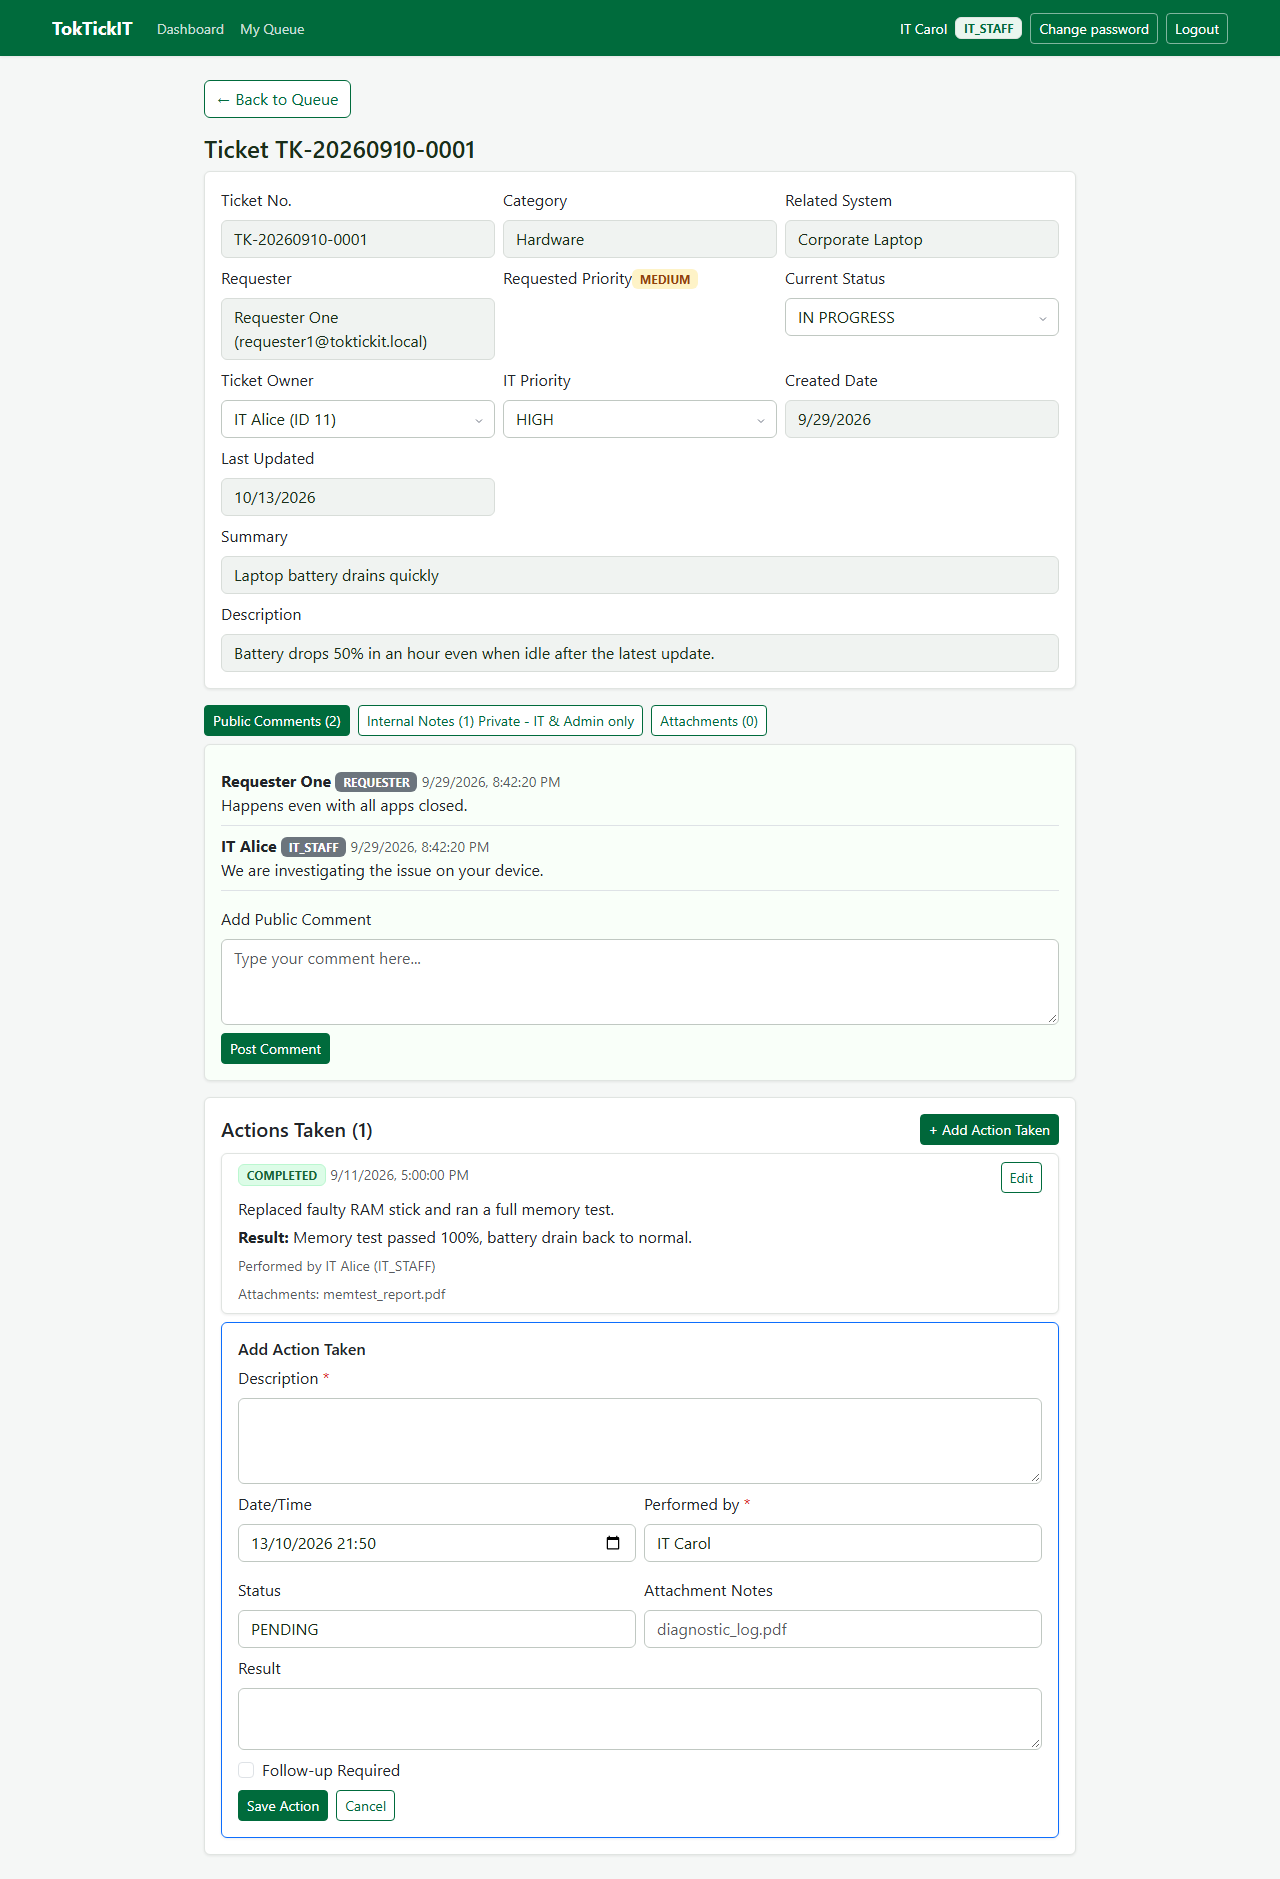
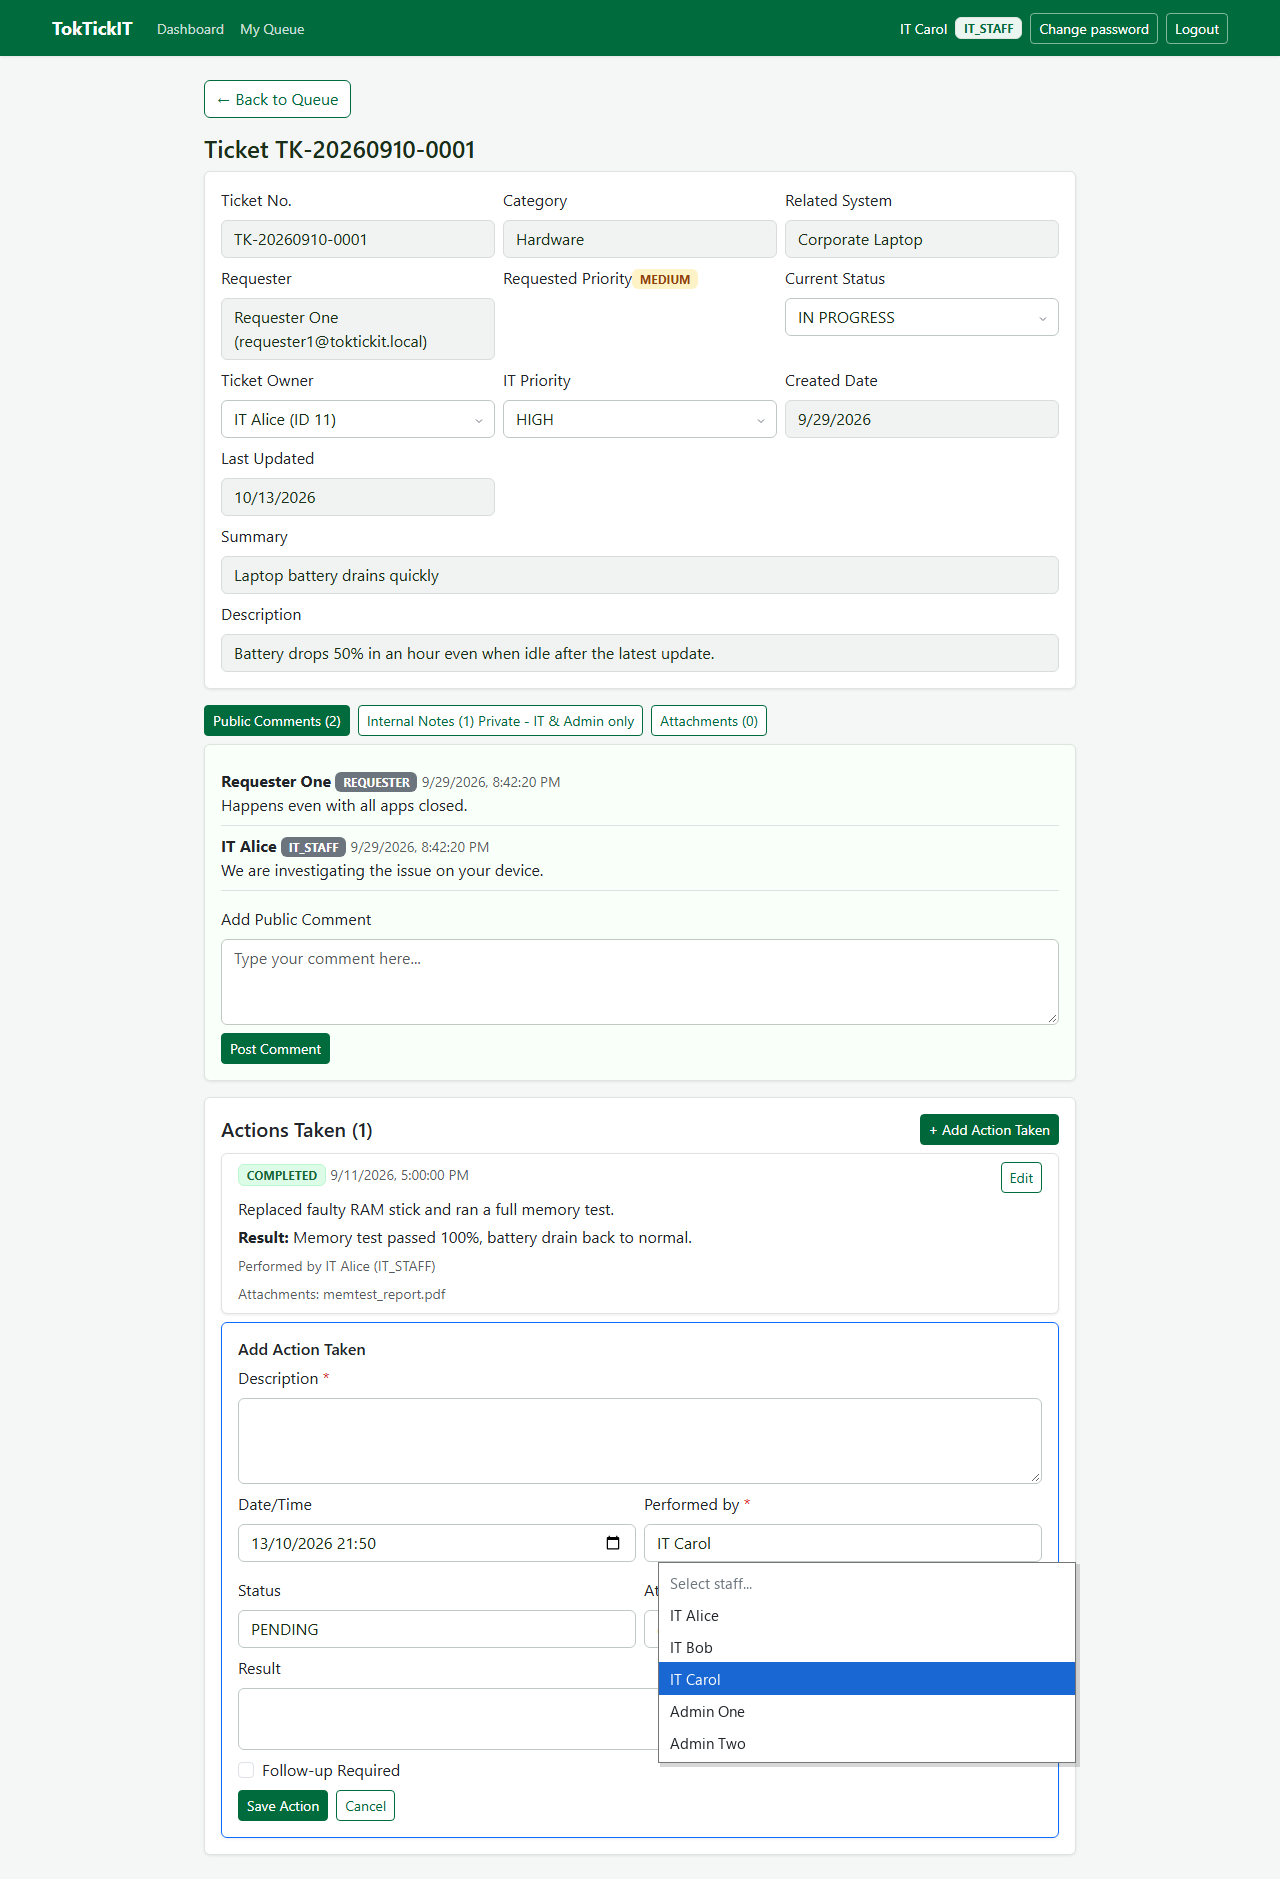
fix(lab-04): address PR #63 review — reconcile 21 screenshots, reviewer.md release row, expanded performer options, .gitignore

Changed region(s): [[0.5, 0.8334, 0.8438, 0.9569]]

diff --git a/e2e/lab-04/screenshots.spec.ts b/e2e/lab-04/screenshots.spec.ts
@@ -202,9 +202,17 @@ test.describe('VIS-01 — Lab 4 responsive screenshots', () => {
     await expect(dialog.getByLabel(/performed by/i)).toBeVisible({ timeout: 10000 });
     const performerOptions = await dialog.getByLabel(/performed by/i).locator('option').allTextContents();
     expect(performerOptions.join('|')).not.toMatch(/inactive/i);
+    // Expand select element visually so all active staff options are readable in the screenshot
+    await dialog.getByLabel(/performed by/i).evaluate((el) => {
+      (el as HTMLSelectElement).size = Math.min((el as HTMLSelectElement).options.length, 6);
+    });
+    await dialog.getByLabel(/performed by/i).scrollIntoViewIfNeeded();
     await page.screenshot({
       path: 'artifacts/lab-04/screenshots/actions-taken/performer-options.png',
       fullPage: true
+    });
+    await dialog.getByLabel(/performed by/i).evaluate((el) => {
+      (el as HTMLSelectElement).size = 1;
     });
     await dialog.getByRole('button', { name: /^cancel$/i }).last().click();
 

diff --git a/docs/lab-04/reviewer.md b/docs/lab-04/reviewer.md
@@ -21,7 +21,8 @@
 | https://github.com/ssiriwan/toktickit/pull/56 | #55 (plan: #49) | Ticket workflow hardening and resolution gate (Issue #55) | MERGED into `lab4-staging` (`06330e2`, 2026-09-29) — round 1 (1 blocking: stale gate) fixed via `onChanged` + UI-06c |
 | https://github.com/ssiriwan/toktickit/pull/58 | #57 (plan: #52) | Final hardening, regression, screenshots, release prep (Issue #57) | MERGED into `lab4-staging` (`9654f8a`, 2026-09-29) — round 1 (Passed + E2E race + performer race, both fixed) + round 2 (traceability rows + UI-07 file + smoke-level note) |
 | https://github.com/ssiriwan/toktickit/pull/60 | #59 (plan: #52) | Final docs: reviewer and ai-use curation (Issue #59) | MERGED into `lab4-staging` (`e1b8f86`, 2026-09-29) — approved and merged |
-| https://github.com/ssiriwan/toktickit/pull/62 | #61 (plan: #52) | Release evidence: workflow shots, a11y checklist, test evidence, README (Issue #61) | Open — round 1 review by @thhanabun (Passed + blocking 0008 spec-fight fixed via 0005 switch + non-blocking counts/format/typo addressed) |
+| https://github.com/ssiriwan/toktickit/pull/62 | #61 (plan: #52) | Release evidence: workflow shots, a11y checklist, test evidence, README (Issue #61) | MERGED into `lab4-staging` (`4b8e0e3`, 2026-10-31) — 3 review rounds by @thhanabun, all points fixed, merged |
+| https://github.com/ssiriwan/toktickit/pull/63 | #63 (release) | Release: Lab 4 — Actions Taken, Dashboards, Workflow Hardening, and Final Regression | Open — round 1 review by @thhanabun (Passed all scope checks, 2 blockings addressed) |
 
 ### Reviews Received — Details
 
@@ -62,7 +63,7 @@
 
 - **PR #60 (Final docs):** Approved and merged into `lab4-staging` (`e1b8f86`). Curated ai-use down to 10 selected prompts with full reflections; reviewer records aligned.
 
-- **PR #62 (Release evidence):** round 1 by @thhanabun (2026-10-13) — Passed (a11y-checklist complete, flex-wrap header fix, strong workflow evidence test with real 409 race, test-run-evidence infra failure note, rewritten README, tests.md arithmetic).
+- **PR #62 (Release evidence):** MERGED into `lab4-staging` (`4b8e0e3`). Round 1 by @thhanabun (2026-10-13) — Passed (a11y-checklist complete, flex-wrap header fix, strong workflow evidence test with real 409 race, test-run-evidence infra failure note, rewritten README, tests.md arithmetic).
   - Blocking 1 (specs fight over ticket 0008 without inter-spec reset): screenshots workflow pointed at unused zero-action ticket `TK-20260910-0005` (NEW → OPEN → IN_PROGRESS → gate warning → complete action → resolve), isolating it completely from `ticket-resolution.spec.ts` (`0008`) and making `npm run e2e:lab4` 9/9 fully deterministic regardless of execution order. Added `0005` reset to `global.setup.ts`.
   - Non-blocking 1 (screenshots.spec.ts:128 formatting): separated two statements onto individual lines.
   - Non-blocking 2 (stale counts): updated README:63 and test-run-evidence.md:14,16 from 41 files / 213 tests to 42 files / 215 tests.
@@ -73,6 +74,11 @@
     - Added reconciliation note in `tests.md` clarifying that the 5th test in `screenshots.spec.ts` captures visual evidence for Parts 6 & 7 on top of the planned functional E2E-01..03 tests.
     - Added `TK-20260910-0006` reset (`itPriority: 'URGENT'`, `currentStatus: 'REOPENED'`) in both `global.setup.ts` and `screenshots.spec.ts` post-race teardown, preventing URGENT priority drift across runs.
     - Removed silent `catch {}` in fixture reset helper: now logs and rethrows on database errors for clear failure diagnostics.
+
+- **PR #63 (Release PR):** round 1 by @thhanabun (2026-11-01) — Passed all 6 scope and engineering contract checks (exact 9 increments, additive migration only, config wiring, clean mergeable state vs main).
+  - Blocking 1 (reviewer.md status): marked PR #62 as MERGED (`4b8e0e3`) with complete round-1/2/3 history, and added PR #63 release row.
+  - Blocking 2 (screenshot count reconciliation): updated screenshot count to 21 across README.md, tests.md, and release PR body (4 areas × 3 viewports = 12 + 9 functional/evidence shots).
+  - Non-blockings addressed: formatted release PR description, documented mandatory main rerun checklist, and added `pgdata_*.tar.gz` to `.gitignore`.
 
 ## Pull Requests I Reviewed (partner repo: thhanabun/Software_Eng_Lab)
 

diff --git a/docs/lab-04/tests.md b/docs/lab-04/tests.md
@@ -67,7 +67,7 @@
 - [x] Actions CRUD + validation + inactive-assignee + requester-403 (ACT-01..14, UNIT-02, UI-01/01b/01c/02, E2E-01)
 - [x] Workflow matrix + gate + concurrency + legacy regression (WF-01..07, UI-05/06/06b/06c, E2E-03)
 - [x] Dashboards server-computed + role-isolated + drill-down (UNIT-01, RD-01..03, SD-01..03, UI-03/04, PERF-01, E2E-02)
-- [x] Style consistency Lab 4 screens (UI-07) + responsive + visual (VIS-01: 15 screenshots, 4 areas × 3 viewports) + a11y (labels, alert/status roles, focus, keyboard)
+- [x] Style consistency Lab 4 screens (UI-07) + responsive + visual (VIS-01: 21 screenshots, 4 areas × 3 viewports + 9 functional/evidence shots) + a11y (labels, alert/status roles, focus, keyboard)
 - [x] `npm test` green (legacy + new), `npm run build` clean, seed idempotent, backup taken
 
 ## 4. Execution
@@ -76,4 +76,4 @@
 - `npm run e2e:lab4`: 9 passed (E2E-01..03 + VIS-01 ×5) on chromium with seed pinning + E2E-action cleanup + 0005/0006/0008 reset.
 - `npm run build`: client (vite, 54 modules) + server (tsc) clean.
 - Seed fixtures for tests: requesters ×2 (isolation), active/inactive staff, tickets across 8 statuses + unassigned, actions (0 / 1-completed / multi-performer / follow-up).
-- `Final` column flipped to `Pass` after the 100% green run + evidence screenshots under `artifacts/lab-04/screenshots/` (15 PNGs).
+- `Final` column flipped to `Pass` after the 100% green run + evidence screenshots under `artifacts/lab-04/screenshots/` (21 PNGs).

diff --git a/README.md b/README.md
@@ -68,7 +68,7 @@ npm run build         # client (vite) + server (tsc) clean
 - **Unit:** action validation (BR-05..08/29), dashboard UTC window (BR-28), lifecycle matrices
 - **API:** actions CRUD + authz, workflow matrix/gate/409, dashboards (isolation, counts, user summary), perf smoke (p95 < 1s)
 - **UI:** action form + debounce + read-only, dashboards cards + drill-down hrefs, status control + gate/409 banners, theme tokens
-- **E2E:** Playwright: action lifecycle → requester visibility, gate → resolve → close, drill-down URLs, 15 screenshots (4 areas × 3 viewports)
+- **E2E:** Playwright: action lifecycle → requester visibility, gate → resolve → close, drill-down URLs, 21 screenshots (4 areas × 3 viewports + 9 functional/evidence shots)
 
 Full logs: `docs/lab-04/test-run-evidence.md`. Contract: `docs/lab-04/{specification,api-spec,ui-spec,tests}.md`.
 
